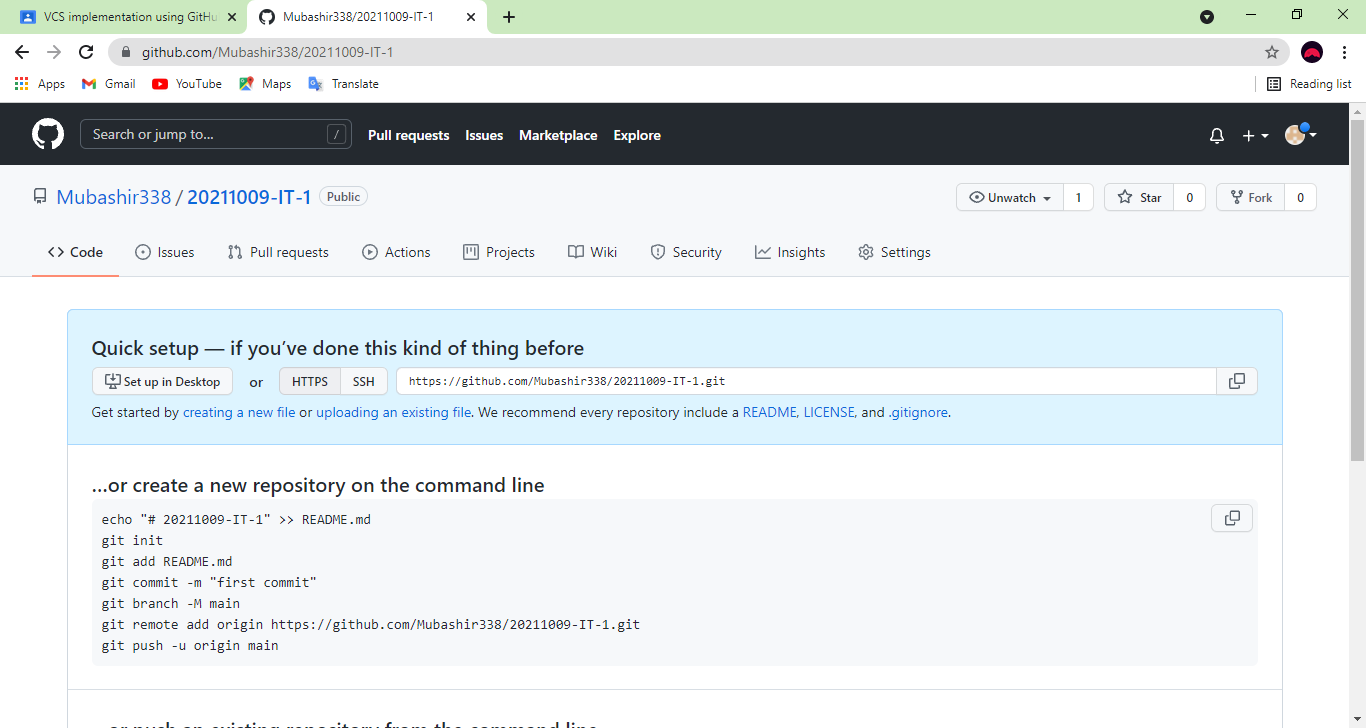
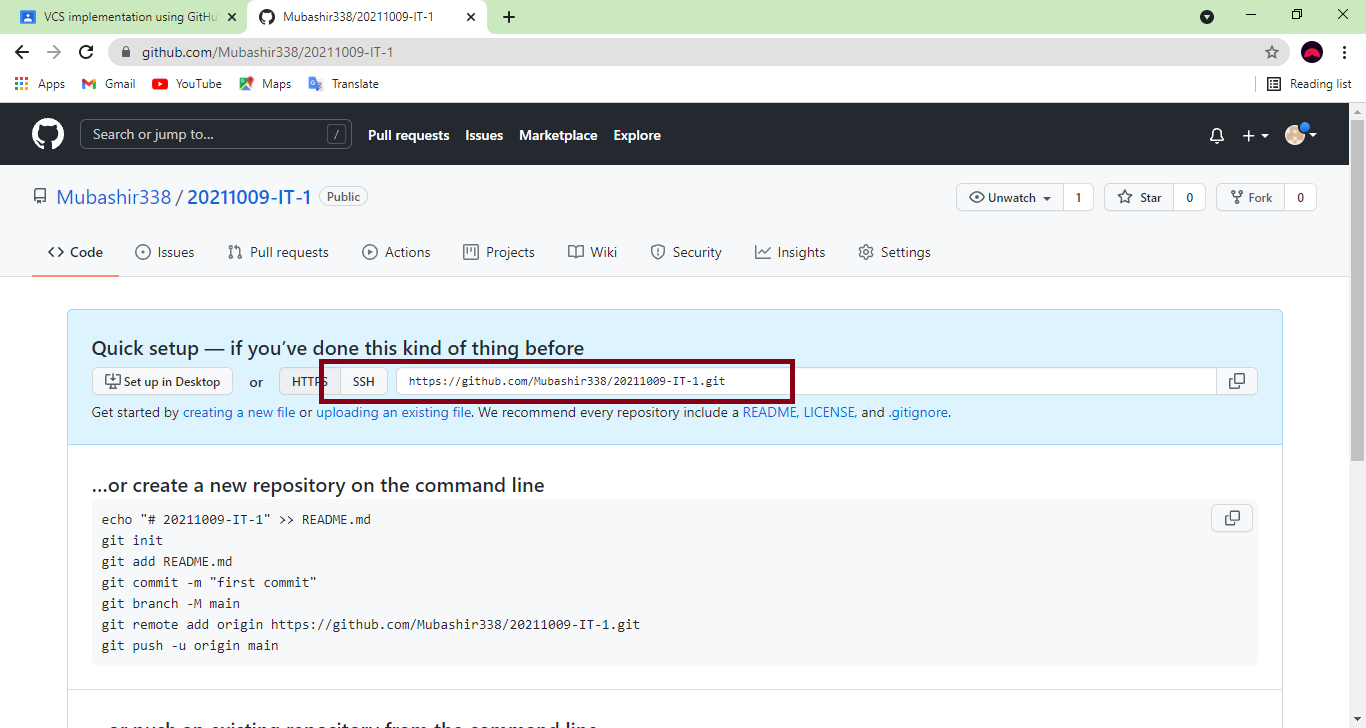
Repository link added

Changed region(s): [[0.2152, 0.4835, 0.5842, 0.5742]]

diff --git a/task.html b/task.html
@@ -13,6 +13,10 @@
     <h1> Naming repository</h1>
     <p>In this section we will name a new repository in github which will help us identify our projects. We will keep it public as it will ask for payment options if we opt for private repository </p>
     <img src = "Rep name.png" alt="Naming new repository" style="width: 700px; height: 400px;">
+    <h1>Repository cloning</h1>
+    <p>In this section we will create a clone of repository by using a unique link provided by github which will help us accessing the code on our local machine </p>
+    <img src = "Rep link.png" alt="Link of repository" style="width: 700px; height: 400px;">
+    
     
 
 </body>
